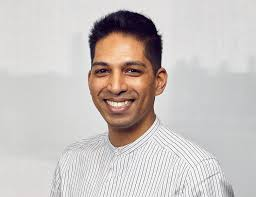
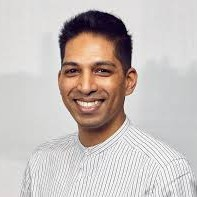
Adding Shakir, Emma, and Charl. Set Keynote speakers

Changed region(s): [[0.0914, 0.0305, 1.0, 1.0]]

diff --git a/assets/js/main.js b/assets/js/main.js
@@ -78,7 +78,7 @@ INFO =
     'Dr. Ronald Clark': {
       imagePath: './assets/speaker_data/ronald_clark/image.jpg',
       lectureHeading: '3D Vision',
-      category: 'Research',
+      category: 'Keynote',
       affiliation: 'Imperial College London\n'
     },
     'Dr. Vukosi Marivate': {
@@ -127,7 +127,26 @@ INFO =
       category: 'Foundations',
       affiliationInfoPath: './assets/speaker_data/chris_cleghorn/affiliation.txt',
       affiliation: 'University of Pretoria\n'
+    },
+    'Shakir Mohamend': {
+      imagePath: './assets/speaker_data/shakir_mohamed/image.jpg',
+      category: 'Keynote',
+      affiliationInfoPath: './assets/speaker_data/shakir_mohamed/affiliation.txt',
+      affiliation: 'DeepMind\n'
+    },
+    'Emma Ruttkamp-Bloem': {
+      imagePath: './assets/speaker_data/emma_ruttkamp-bloem/image.jpg',
+      category: 'Keynote',
+      affiliationInfoPath: './assets/speaker_data/emma_ruttkamp-bloem/affiliation.txt',
+      affiliation: 'University of Pretoria\n'
+    },
+    'Charl Muller': {
+      imagePath: './assets/speaker_data/charl_muller/image.jpg',
+      category: 'Applied',
+      affiliationInfoPath: './assets/speaker_data/charl_muller/affiliation.txt',
+      affiliation: 'Standard Bank\n'
     }
+
   }
   
 
